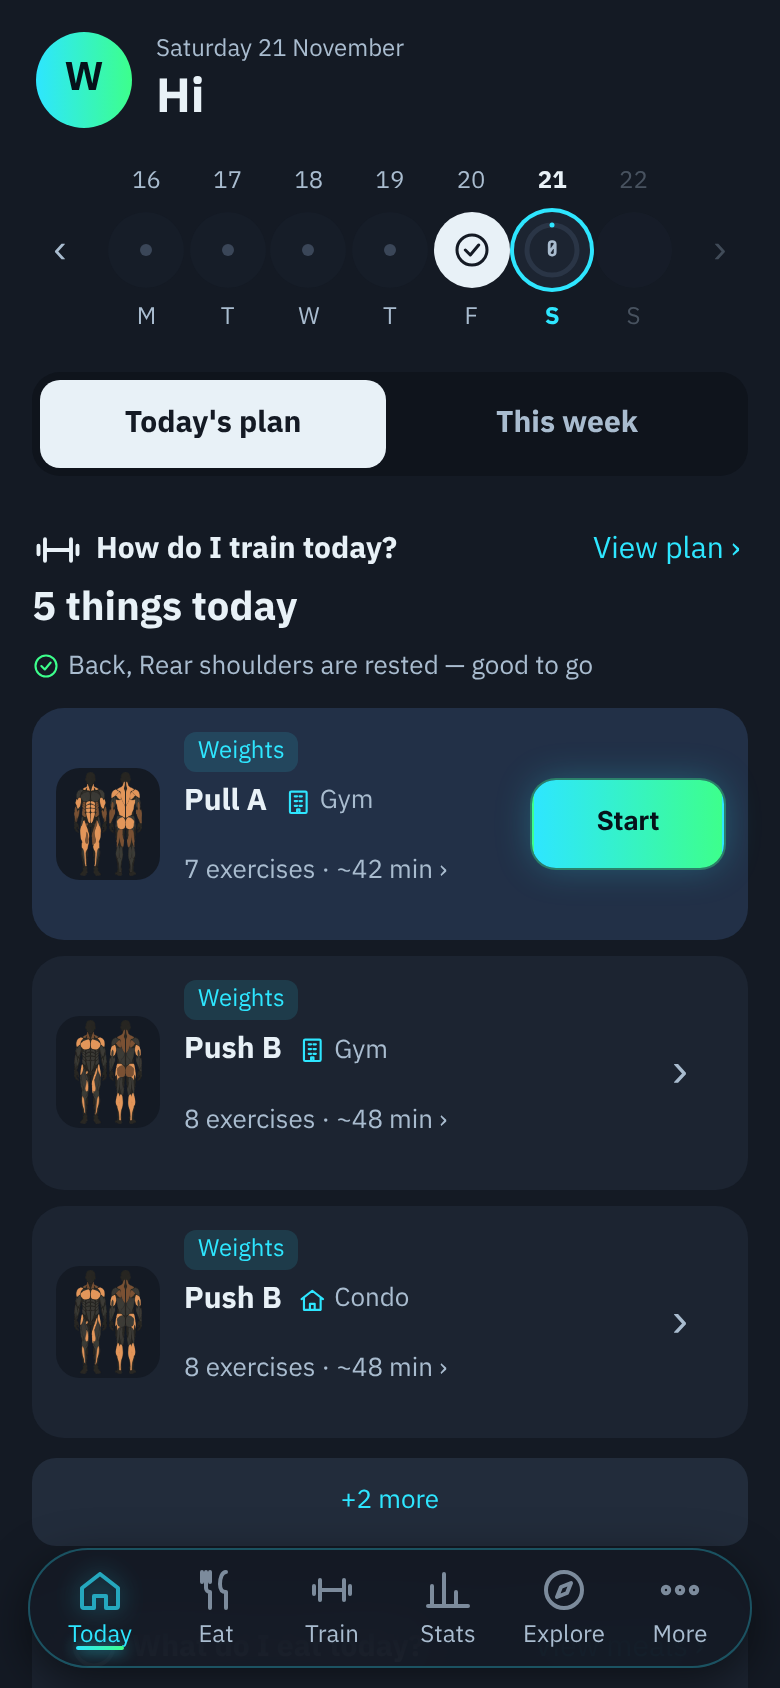
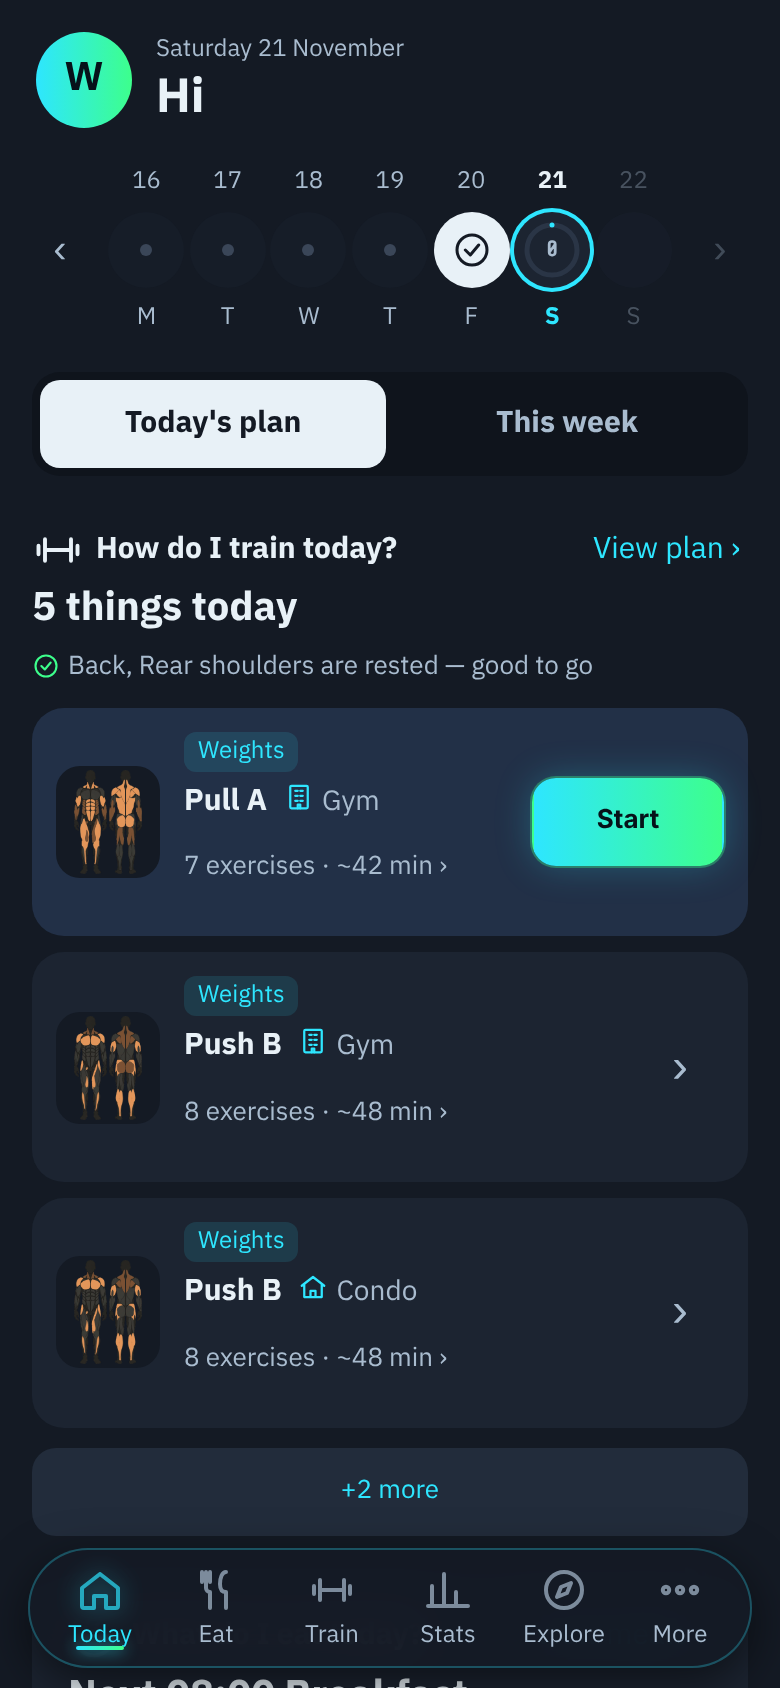
Today: program name and place share one baseline (#140)
* docs: Today critique snapshot + redesign intent

Claude-Session: https://claude.ai/code/session_01TA1QFnqgBxBRFsiXemJ9Lg

* chore: ignore impeccable live-server state

Claude-Session: https://claude.ai/code/session_01TA1QFnqgBxBRFsiXemJ9Lg

* Today: plan first, one start button, inline meal tick, folded recovery

Claude-Session: https://claude.ai/code/session_01TA1QFnqgBxBRFsiXemJ9Lg

* docs: merge PR automatically once npm test passes

Claude-Session: https://claude.ai/code/session_01TA1QFnqgBxBRFsiXemJ9Lg

* docs: no OK wait between steps

Claude-Session: https://claude.ai/code/session_01TA1QFnqgBxBRFsiXemJ9Lg

* Today: recovery-aware start, undo on meal tick, progress bars, direct start

Claude-Session: https://claude.ai/code/session_01TA1QFnqgBxBRFsiXemJ9Lg

* Today: rested program leads, rest-day exit, inline meal cancel, over-target bar

Claude-Session: https://claude.ai/code/session_01TA1QFnqgBxBRFsiXemJ9Lg

* Today: body weight + 7-day change + weigh-in in the body card

Claude-Session: https://claude.ai/code/session_01TA1QFnqgBxBRFsiXemJ9Lg

* Today: body card shows weight, muscle mass and body fat

Claude-Session: https://claude.ai/code/session_01TA1QFnqgBxBRFsiXemJ9Lg

* Today: weigh-in opens the full body-log sheet

Claude-Session: https://claude.ai/code/session_01TA1QFnqgBxBRFsiXemJ9Lg

* Today: headline matches suggestion, inline cancel, blank weigh-in, fits above tab bar

Claude-Session: https://claude.ai/code/session_01TA1QFnqgBxBRFsiXemJ9Lg
[…]

diff --git a/public/index.html b/public/index.html
@@ -8,11 +8,11 @@
 <meta name="apple-mobile-web-app-status-bar-style" content="black-translucent">
 <meta name="apple-mobile-web-app-title" content="WeightGram">
 <link rel="manifest" href="/manifest.webmanifest">
-<link rel="apple-touch-icon" href="/apple-touch-icon.png?v=138561">
+<link rel="apple-touch-icon" href="/apple-touch-icon.png?v=138562">
 <title>WeightGram</title>
 <link rel="stylesheet" href="https://fonts.googleapis.com/css2?family=IBM+Plex+Sans+Thai:wght@400;500;700&family=IBM+Plex+Mono:wght@400;500&family=Share+Tech+Mono&display=swap">
 <style>:root{padding-top:env(safe-area-inset-top,0px);padding-bottom:env(safe-area-inset-bottom,0px)}*{-webkit-tap-highlight-color:transparent}body{margin:0;font-size:var(--t-sm);font-family:system-ui,sans-serif}img{max-width:100%}[hidden]{display:none!important}</style>
-<link rel="stylesheet" href="/css/app.css?v=138561">
+<link rel="stylesheet" href="/css/app.css?v=138562">
 </head><body>
 
 <div class="wrap">
@@ -276,37 +276,37 @@
   </div>
 </div>
 
-<script src="/js/core.js?v=138561"></script>
-<script src="/js/food.js?v=138561"></script>
-<script src="/js/locations.js?v=138561"></script>
-<script src="/js/programs.js?v=138561"></script>
-<script src="/js/run.js?v=138561"></script>
-<script src="/js/workout.js?v=138561"></script>
-<script src="/js/exercise-edit.js?v=138561"></script>
-<script src="/js/edit-tx.js?v=138561"></script>
-<script src="/js/exercise-library.js?v=138561"></script>
-<script src="/js/program-manager.js?v=138561"></script>
-<script src="/js/hero.js?v=138561"></script>
-<script src="/js/rest-timer.js?v=138561"></script>
-<script src="/js/auth.js?v=138561"></script>
-<script src="/js/push.js?v=138561"></script>
-<script src="/js/data-io.js?v=138561"></script>
-<script src="/js/sync.js?v=138561"></script>
-<script src="/js/muscle-map.js?v=138561"></script>
-<script src="/js/progress.js?v=138561"></script>
-<script src="/js/history-chart.js?v=138561"></script>
-<script src="/js/stats-extra.js?v=138561"></script>
-<script src="/js/meal-plan.js?v=138561"></script>
-<script src="/js/undo.js?v=138561"></script>
-<script src="/js/home.js?v=138561"></script>
-<script src="/js/share.js?v=138561"></script>
-<script src="/js/explore.js?v=138561"></script>
-<script src="/js/onboarding.js?v=138561"></script>
-<script src="/js/account.js?v=138561"></script>
-<script src="/js/share-card.js?v=138561"></script>
-<script src="/js/number-pad.js?v=138561"></script>
-<script src="/js/refresh.js?v=138561"></script>
-<script src="/js/app.js?v=138561"></script>
+<script src="/js/core.js?v=138562"></script>
+<script src="/js/food.js?v=138562"></script>
+<script src="/js/locations.js?v=138562"></script>
+<script src="/js/programs.js?v=138562"></script>
+<script src="/js/run.js?v=138562"></script>
+<script src="/js/workout.js?v=138562"></script>
+<script src="/js/exercise-edit.js?v=138562"></script>
+<script src="/js/edit-tx.js?v=138562"></script>
+<script src="/js/exercise-library.js?v=138562"></script>
+<script src="/js/program-manager.js?v=138562"></script>
+<script src="/js/hero.js?v=138562"></script>
+<script src="/js/rest-timer.js?v=138562"></script>
+<script src="/js/auth.js?v=138562"></script>
+<script src="/js/push.js?v=138562"></script>
+<script src="/js/data-io.js?v=138562"></script>
+<script src="/js/sync.js?v=138562"></script>
+<script src="/js/muscle-map.js?v=138562"></script>
+<script src="/js/progress.js?v=138562"></script>
+<script src="/js/history-chart.js?v=138562"></script>
+<script src="/js/stats-extra.js?v=138562"></script>
+<script src="/js/meal-plan.js?v=138562"></script>
+<script src="/js/undo.js?v=138562"></script>
+<script src="/js/home.js?v=138562"></script>
+<script src="/js/share.js?v=138562"></script>
+<script src="/js/explore.js?v=138562"></script>
+<script src="/js/onboarding.js?v=138562"></script>
+<script src="/js/account.js?v=138562"></script>
+<script src="/js/share-card.js?v=138562"></script>
+<script src="/js/number-pad.js?v=138562"></script>
+<script src="/js/refresh.js?v=138562"></script>
+<script src="/js/app.js?v=138562"></script>
 
 <div id="rec-wrap" class="stack" style="gap:10px" hidden><div class="rcf-head"><div class="sec-t" data-i="การฟื้นตัวของกล้ามเนื้อ">การฟื้นตัวของกล้ามเนื้อ</div><button class="btn sm" id="rec-cfg">⚙ <span data-i="ตั้งเวลาฟื้นตัว">ตั้งเวลาฟื้นตัว</span></button></div><div class="card" id="rec-body"></div></div>
 </body></html>

diff --git a/public/css/app.css b/public/css/app.css
@@ -1290,3 +1290,7 @@ body.on-home{background-image:none}
 /* place sits beside the program name */
 #v-home .hq-pn{display:flex;flex-wrap:wrap;align-items:center;gap:2px 8px}
 #v-home .hq-pn .loc-tag{margin:0;font-size:var(--t-meta);font-weight:400;color:var(--muted)}
+/* name + place share one baseline (no tilt) */
+#v-home .hq-pn{align-items:baseline!important;line-height:1.3}
+#v-home .hq-pn .loc-tag{display:inline-flex;align-items:baseline;gap:4px;line-height:1.3;font-size:var(--t-sm)}
+#v-home .hq-pn .loc-tag svg{align-self:center;width:15px;height:15px;transform:translateY(1px)}

diff --git a/docs/work/2026-11-21-today-bugs/plan.md b/docs/work/2026-11-21-today-bugs/plan.md
@@ -76,3 +76,6 @@
 
 ## Place beside the program name (device feedback)
 - plan cards: "Pull A 🏢 Gym" on the title line; preview line keeps "N ท่า · ~N นาที"
+
+## Name + place on one baseline
+- .hq-pn align-items:baseline; place tag inline, icon centred on the text
